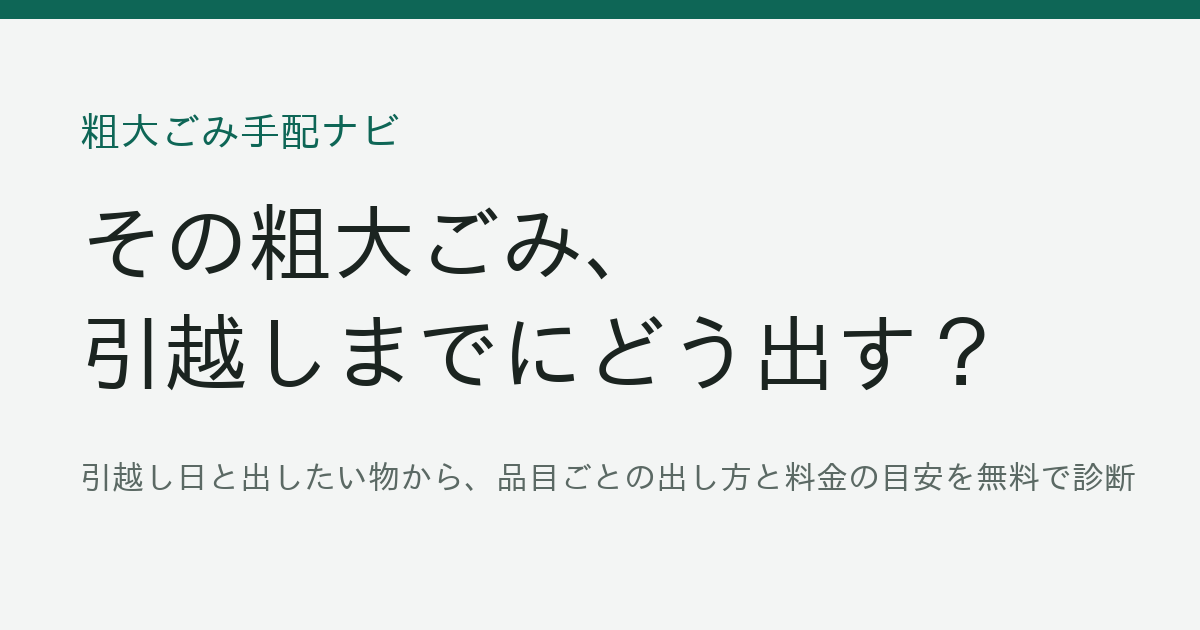
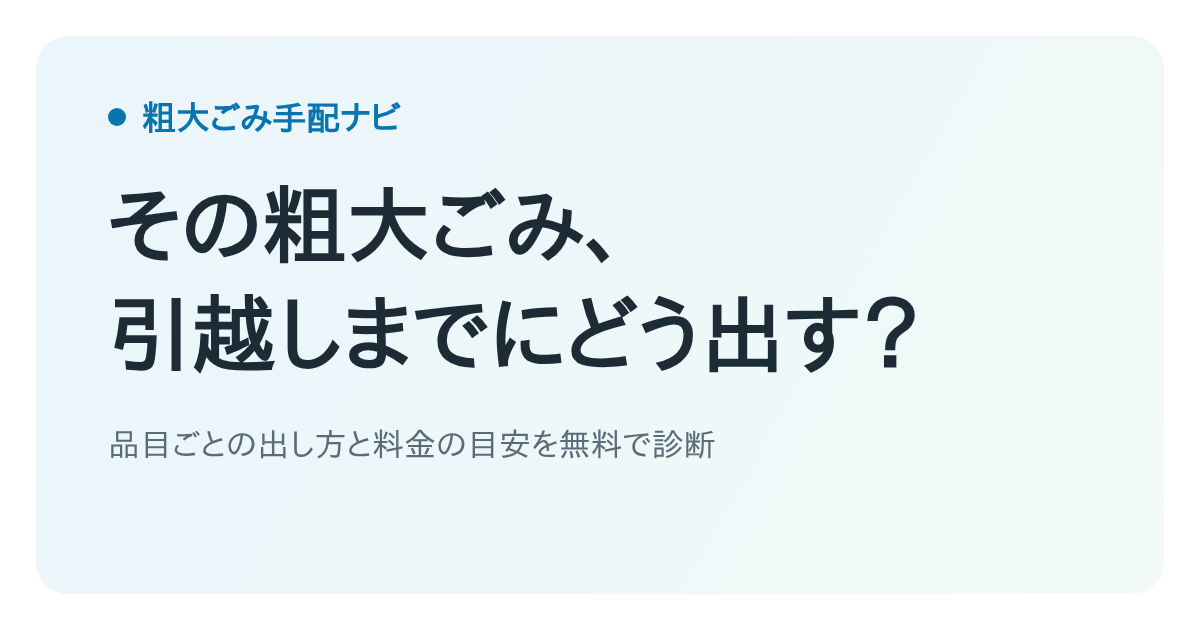
白背景の爽やかなデザインに変更し、市区ごとの出し方とFAQを追加
- 配色を白背景・青系に（ダークモードは廃止）。カードに薄い影、ヘッダーを淡いグラデーションの帯に
- OGP画像・favicon・apple-touch-icon・404 を新しい配色に
- 市区の表をHTMLに直接書く（JSなしでも読める）＋市区ごとの出し方の段落
- 「粗大ごみの出し方（基本の流れ）」の節、FAQ「何日前に申し込めばいいか」（FAQPageも）を追加

Claude-Session: https://claude.ai/code/session_01Tf5d8eCdm7P28XR5irAExE

diff --git a/index.html b/index.html
@@ -18,7 +18,8 @@
 <meta property="og:image:height" content="630">
 <meta property="og:image:alt" content="粗大ごみの出し方診断">
 <meta name="twitter:card" content="summary_large_image">
-<meta name="theme-color" content="#0E6656">
+<meta name="theme-color" content="#FFFFFF">
+<meta name="color-scheme" content="light">
 <link rel="icon" href="/favicon.svg" type="image/svg+xml">
 <link rel="apple-touch-icon" href="/apple-touch-icon.png">
 <link rel="preconnect" href="https://fonts.googleapis.com">
@@ -31,6 +32,7 @@
 {"@context":"https://schema.org","@type":"FAQPage","mainEntity":[
 {"@type":"Question","name":"引越しまでに粗大ごみの予約が間に合わないときは？","acceptedAnswer":{"@type":"Answer","text":"まだ使える物は出張買取（断っても無料のお店）、自家用車がある場合は受入施設への持込、それも難しい場合は新居に運んで新しい自治体で出す方法があります。市の予約ページはキャンセルで空きが出ることもあるので、こまめに確認するのも手です。"}},
 {"@type":"Question","name":"冷蔵庫や洗濯機は粗大ごみに出せますか？","acceptedAnswer":{"@type":"Answer","text":"冷蔵庫・冷凍庫、洗濯機・衣類乾燥機、テレビ、エアコンの家電4品目は家電リサイクル法の対象で、市区町村の粗大ごみには出せません。買い替えるお店か買ったお店に引き取ってもらうか、郵便局でリサイクル券を払い込んで指定引取場所へ運びます。"}},
+{"@type":"Question","name":"粗大ごみは引越しの何日前に申し込めばいいですか？","acceptedAnswer":{"@type":"Answer","text":"自治体や時期によって違いますが、申し込みから収集まで1〜3週間ほどかかることがあります。3〜4月の引越しシーズンはさらに混むので、引越し日が決まったらすぐに申し込むと安心です。"}},
 {"@type":"Question","name":"粗大ごみの料金はいくらですか？","acceptedAnswer":{"@type":"Answer","text":"自治体と品目の大きさで決まります。たとえば千葉市は390円から1,560円、川崎市は300円・600円・1,200円の3区分です（2026年10月30日に各市の公式サイトで確認）。正確な金額は各自治体の手数料一覧で確認してください。"}},
 {"@type":"Question","name":"この診断にお金はかかりますか？","acceptedAnswer":{"@type":"Answer","text":"かかりません。診断は無料です。市や郵便局、買取店への支払いは、それぞれに直接行います。"}},
 {"@type":"Question","name":"入力した内容や写真はどこかに送られますか？","acceptedAnswer":{"@type":"Answer","text":"送られません。診断はお使いのブラウザの中だけで行い、入力内容や写真は保存しません。"}}
@@ -38,19 +40,14 @@
 </script>
 <style>
 :root{
-  --bg:#F3F5F4; --surface:#FFFFFF; --sunk:#E9EDEB; --ink:#1B2420; --muted:#5B6964; --faint:#9AA6A1; --line:#D6DDDA;
-  --accent:#0E6656; --accent-ink:#FFFFFF; --accent-soft:#DDEEE9;
-  --warn:#8A5A00; --warn-soft:#F8EDD5;
+  --bg:#FFFFFF; --surface:#FFFFFF; --sunk:#F3F8FB; --ink:#1D2B36; --muted:#5B6C79; --faint:#9DAAB4; --line:#E2EAF0;
+  --accent:#0874B0; --accent-ink:#FFFFFF; --accent-soft:#E8F4FB; --mint:#E9F7F1; --mint-ink:#0F7A57;
+  --warn:#8A5A00; --warn-soft:#FFF6DF;
+  --shadow:0 1px 2px rgba(16,60,90,.04),0 6px 20px rgba(16,60,90,.06);
   --f-display:"Zen Kaku Gothic New","Hiragino Sans","Noto Sans JP",system-ui,sans-serif;
   --f-body:"BIZ UDPGothic","Hiragino Sans","Noto Sans JP","Yu Gothic",system-ui,sans-serif;
   color-scheme:light;
 }
-@media (prefers-color-scheme: dark){:root:not([data-theme="light"]){
-  --bg:#111715; --surface:#19211E; --sunk:#141B18; --ink:#E4EBE8; --muted:#98A7A1; --faint:#5F6E68; --line:#2C3833;
-  --accent:#4CC2A4; --accent-ink:#06231C; --accent-soft:#173A31; --warn:#E5B04E; --warn-soft:#352A14; color-scheme:dark}}
-:root[data-theme="dark"]{
-  --bg:#111715; --surface:#19211E; --sunk:#141B18; --ink:#E4EBE8; --muted:#98A7A1; --faint:#5F6E68; --line:#2C3833;
-  --accent:#4CC2A4; --accent-ink:#06231C; --accent-soft:#173A31; --warn:#E5B04E; --warn-soft:#352A14; color-scheme:dark}
 *{box-sizing:border-box}
 [hidden]{display:none!important}
 html{-webkit-text-size-adjust:100%}
@@ -59,25 +56,31 @@ body{margin:0;background:var(--bg);color:var(--ink);font-family:var(--f-body);fo
 a{color:var(--accent)}
 img{max-width:100%}
 .wrap{max-width:1100px;margin:0 auto}
-h1,h2,h3{font-family:var(--f-display);font-weight:900;text-wrap:balance;margin:0;line-height:1.35}
+h1,h2,h3{font-family:var(--f-display);font-weight:700;text-wrap:balance;margin:0;line-height:1.35}
 button{font:inherit;color:inherit;cursor:pointer}
 :focus-visible{outline:3px solid var(--accent);outline-offset:2px}
 .num{font-variant-numeric:tabular-nums}
-.brand{font-size:13px;color:var(--muted);font-weight:700;letter-spacing:.06em;text-decoration:none}
-header{display:flex;flex-direction:column;gap:6px;margin-bottom:20px}
-header h1{font-size:28px}
+.nb{display:inline-block}
+.brand{font-size:13px;color:var(--accent);font-weight:700;letter-spacing:.06em;text-decoration:none}
+header{display:flex;flex-direction:column;gap:8px;margin:-8px 0 24px;padding:28px 28px 24px;border-radius:20px;
+  background:linear-gradient(120deg,#EAF5FC 0%,#F1FAF6 100%)}
+@media (max-width:640px){header{padding:22px 18px 18px;border-radius:16px}}
+header h1{font-size:30px;letter-spacing:.01em}
+@media (max-width:640px){header h1{font-size:24px}}
 header p{margin:0;color:var(--muted);max-width:62ch}
+.brand::before{content:"";display:inline-block;width:8px;height:8px;border-radius:50%;background:var(--accent);margin-right:8px;vertical-align:1px}
 .note{background:var(--warn-soft);color:var(--ink);border-radius:10px;padding:8px 12px;font-size:13px;margin-top:6px;max-width:62ch}
 .note b{color:var(--warn)}
 .grid{display:grid;grid-template-columns:minmax(0,.9fr) minmax(0,1.1fr);gap:24px;align-items:start}
 @media (max-width:880px){.grid{grid-template-columns:minmax(0,1fr)}}
-.panel{background:var(--surface);border:1px solid var(--line);border-radius:14px;padding:20px}
+.panel{background:var(--surface);border:1px solid var(--line);border-radius:16px;padding:22px;box-shadow:var(--shadow)}
 .qs{display:flex;flex-direction:column;gap:18px;position:sticky;top:12px}
 @media (max-width:880px){.qs{position:static}}
 .q b{display:block;font-size:14px;margin-bottom:8px}
 .q b small{font-weight:400;color:var(--muted);margin-left:6px}
 .chips{display:flex;flex-wrap:wrap;gap:6px}
-.chip{border:1.5px solid var(--line);background:var(--surface);border-radius:999px;padding:7px 13px;font-size:14px}
+.chip{border:1.5px solid var(--line);background:var(--surface);border-radius:999px;padding:7px 14px;font-size:14px;transition:border-color .15s,background .15s}
+.chip:hover{border-color:var(--accent)}
 .chip[aria-pressed=true]{border-color:var(--accent);background:var(--accent);color:var(--accent-ink);font-weight:700}
 .inp{width:100%;min-width:0;border:1.5px solid var(--line);border-radius:10px;padding:8px 12px;background:var(--surface);font:inherit;color:inherit}
 .sub{font-size:12px;color:var(--muted);margin:8px 0 6px}
@@ -91,7 +94,7 @@ header p{margin:0;color:var(--muted);max-width:62ch}
 .tag small{font-weight:400;font-size:11px;color:var(--muted)}
 .tag button{border:0;background:transparent;color:var(--muted);padding:0 6px;font-size:15px}
 .out{display:flex;flex-direction:column;gap:16px;min-width:0}
-.where{background:var(--surface);border:1px solid var(--line);border-radius:14px;padding:16px 18px;display:flex;flex-direction:column;gap:10px}
+.where{background:var(--surface);border:1px solid var(--line);border-radius:16px;box-shadow:var(--shadow);padding:16px 18px;display:flex;flex-direction:column;gap:10px}
 .where h3{font-size:16px}
 .wl{display:grid;grid-template-columns:repeat(2,minmax(0,1fr));gap:8px}
 @media (max-width:520px){.wl{grid-template-columns:minmax(0,1fr)}}
@@ -100,12 +103,12 @@ header p{margin:0;color:var(--muted);max-width:62ch}
 .w .wn{font-size:13px;font-weight:700}
 .w .wd{font-size:12px;color:var(--muted)}
 .w.off{opacity:.4}
-.w.on{background:var(--accent-soft);outline:1.5px solid var(--accent)}
+.w.on{background:var(--accent-soft);outline:1.5px solid color-mix(in srgb,var(--accent) 55%,transparent)}
 .wsub{margin:-6px 0 0;font-size:12px;color:var(--muted)}
 .wmine{font-size:12px;font-weight:700;color:var(--accent);margin-top:4px}
 .wnone{font-size:12px;color:var(--muted);margin-top:4px}
 .cards{display:flex;flex-direction:column;gap:12px}
-.icard{background:var(--surface);border:1px solid var(--line);border-radius:14px;overflow:hidden}
+.icard{background:var(--surface);border:1px solid var(--line);border-radius:16px;overflow:hidden;box-shadow:var(--shadow)}
 .ich{display:flex;flex-wrap:wrap;align-items:baseline;gap:6px 10px;padding:14px 18px;border-bottom:1px solid var(--line);background:var(--accent-soft)}
 .ich h3{font-size:20px}
 .icat{font-size:12px;color:var(--muted)}
@@ -119,7 +122,7 @@ header p{margin:0;color:var(--muted);max-width:62ch}
 .io.rec{background:color-mix(in srgb,var(--accent) 7%,var(--surface))}
 .io.ng{opacity:.5}
 .io.ng .mk{color:var(--muted)}
-.free{background:var(--accent-soft);border-radius:14px;padding:18px;display:flex;flex-direction:column;gap:8px}
+.free{background:var(--mint);border-radius:14px;padding:18px;display:flex;flex-direction:column;gap:8px}
 .free h3{font-size:18px}
 .free ol{margin:0;padding-left:20px;display:flex;flex-direction:column;gap:4px}
 .free p{margin:0;font-size:13px;color:var(--muted)}
@@ -127,10 +130,11 @@ header p{margin:0;color:var(--muted);max-width:62ch}
 .soon b{color:var(--ink)}
 /* 読み物 */
 .guide{margin-top:48px;display:flex;flex-direction:column;gap:36px;max-width:820px}
-.guide h2{font-size:22px;margin-bottom:12px}
+.guide h2{font-size:22px;margin-bottom:12px;padding-left:12px;border-left:4px solid var(--accent)}
 .guide h3{font-size:17px;margin:18px 0 6px}
 .guide p{margin:0 0 .8em}
-.guide ul{margin:0 0 .8em;padding-left:1.3em}
+.guide ul,.guide ol{margin:0 0 .8em;padding-left:1.3em}
+.guide li{margin-bottom:4px}
 .tbl{width:100%;border-collapse:collapse;background:var(--surface);border:1px solid var(--line);border-radius:12px;overflow:hidden;font-size:14px}
 .tbl th,.tbl td{padding:10px 12px;border-bottom:1px solid var(--line);text-align:left;vertical-align:top}
 .tbl th{background:var(--sunk);font-size:13px}
@@ -145,7 +149,7 @@ header p{margin:0;color:var(--muted);max-width:62ch}
   .tbl td:first-child::before{content:none}
   .tbl td:first-child{font-weight:700}
 }
-details{background:var(--surface);border:1px solid var(--line);border-radius:12px;padding:12px 16px;margin-bottom:8px}
+details{background:var(--sunk);border:0;border-radius:12px;padding:12px 16px;margin-bottom:8px}
 summary{font-weight:700;cursor:pointer}
 details p{margin:8px 0 0}
 .foot{margin-top:40px;padding-top:16px;border-top:1px solid var(--line);font-size:12px;color:var(--muted);display:flex;flex-direction:column;gap:4px}
@@ -155,7 +159,7 @@ details p{margin:8px 0 0}
 <div class="wrap">
   <header>
     <a class="brand" href="/">粗大ごみ手配ナビ</a>
-    <h1>その粗大ごみ、引越しまでにどう出す？</h1>
+    <h1>その粗大ごみ、<span class="nb">引越しまでにどう出す？</span></h1>
     <p>引越し日と出したい物を入れると、品目ごとに使える出し方（市の回収・買取・持込・家電リサイクル）と料金の目安がすぐにわかります。診断は無料です。</p>
     <p class="note"><b>料金と日数は目安です。</b>実際の金額・予約の空きは、お住まいの自治体やお店で必ずご確認ください。</p>
   </header>
@@ -180,6 +184,18 @@ details p{margin:8px 0 0}
     </section>
 
     <section>
+      <h2>粗大ごみの出し方（基本の流れ）</h2>
+      <p>多くの自治体では、次の順番で出します。細かい決まりは自治体ごとに違うので、お住まいの市区の公式ページもあわせて確認してください。</p>
+      <ol>
+        <li><b>申し込む</b>：インターネットか電話で、出したい物と収集日を申し込みます。品目ごとの手数料もここでわかります。</li>
+        <li><b>処理券（シール）を買う</b>：コンビニやスーパーなどで、手数料分の処理券を買います。</li>
+        <li><b>処理券を貼る</b>：受付番号や名前を書いて、物の見えるところに貼ります。</li>
+        <li><b>決められた日の朝に出す</b>：指定された場所に、収集日の朝に出します。立ち会いはいらないことが多いです。</li>
+      </ol>
+      <p>引越しが決まったら、まず粗大ごみの申し込みを済ませるのがおすすめです。3〜4月は予約が混み、希望の日が取れないことがあります。</p>
+    </section>
+
+    <section>
       <h2>冷蔵庫・洗濯機・テレビ・エアコンは粗大ごみに出せません</h2>
       <p>この4品目は家電リサイクル法の対象で、市区町村の粗大ごみでは回収していません。買い替えるお店・買ったお店に引き取ってもらうか、郵便局でリサイクル券を払い込み、指定引取場所に運びます（引越し会社が引き取ってくれる場合もあります）。料金はメーカーと大きさで決まります。</p>
       <p>製造から年数の浅い物は、買取で値段がつくこともあります。</p>
@@ -190,14 +206,32 @@ details p{margin:8px 0 0}
       <p>2026年10月30日に各自治体の公式サイトで確認した内容です。変わることがあるので、申し込む前に公式サイトをご確認ください。</p>
       <div class="tblw"><table class="tbl" id="citytbl">
         <thead><tr><th>市区</th><th>申し込み</th><th>料金</th><th>収集までの目安</th><th>持ち込み</th></tr></thead>
-        <tbody></tbody>
+        <tbody>
+<tr><td><a href="https://www.city.yokohama.lg.jp/kurashi/sumai-kurashi/gomi-recycle/gomi/shushu/sodaigomi/dashikata/sodaigomi.html" target="_blank" rel="noopener">横浜市</a></td><td data-h="申し込み">インターネット・チャット・LINE（24時間）、電話</td><td data-h="料金" class="num">品目ごと（市の手数料一覧）</td><td data-h="収集まで">1〜2週間ほど</td><td data-h="持ち込み">市内4か所の自己搬入ヤード</td></tr>
+<tr><td><a href="https://www.city.kawasaki.jp/300/page/0000012773.html" target="_blank" rel="noopener">川崎市</a></td><td data-h="申し込み">インターネット（24時間）、電話</td><td data-h="料金" class="num">¥300・¥600・¥1,200の3区分</td><td data-h="収集まで">1〜2週間ほど</td><td data-h="持ち込み">受付センターに確認</td></tr>
+<tr><td><a href="https://www.city.setagaya.lg.jp/02239/382.html" target="_blank" rel="noopener">世田谷区</a></td><td data-h="申し込み">インターネット、電話</td><td data-h="料金" class="num">品目ごと（区の手数料一覧）</td><td data-h="収集まで">2週間ほど</td><td data-h="持ち込み">船橋粗大ごみ中継所（収集の半額程度）</td></tr>
+<tr><td><a href="https://www.city.suginami.tokyo.jp/guide/gomi/seisou/1004899.html" target="_blank" rel="noopener">杉並区</a></td><td data-h="申し込み">インターネット（24時間）、電話</td><td data-h="料金" class="num">処理券A¥200・B¥300の組み合わせ</td><td data-h="収集まで">2〜3週間</td><td data-h="持ち込み">日曜のみ・1点¥400（要申込）</td></tr>
+<tr><td>さいたま市</td><td data-h="申し込み">インターネット、電話</td><td data-h="料金" class="num">品目ごと（市の手数料一覧）</td><td data-h="収集まで">1〜2週間ほど</td><td data-h="持ち込み">市の公式サイトで確認</td></tr>
+<tr><td><a href="https://www.city.chiba.jp/kankyo/junkan/shushugyomu/sodaigomi.html" target="_blank" rel="noopener">千葉市</a></td><td data-h="申し込み">インターネット・LINE、電話（一部品目は電話のみ）</td><td data-h="料金" class="num">¥390〜¥1,560</td><td data-h="収集まで">1〜2週間</td><td data-h="持ち込み">清掃施設へ自己搬入</td></tr>
+<tr><td>佐倉市</td><td data-h="申し込み">電話</td><td data-h="料金" class="num">市の公式サイトで確認</td><td data-h="収集まで">1〜2週間前に電話</td><td data-h="持ち込み">酒々井リサイクル文化センター（予約不要・10kgで約¥350）</td></tr>
+</tbody>
       </table></div>
+      <h3>市区ごとの粗大ごみの出し方</h3>
+      <p><b>横浜市の粗大ごみ</b>：インターネット・チャット・LINE（24時間）、電話で申し込みます。料金は品目ごとに決まっていて、市の手数料一覧で確認できます。収集までの目安は1〜2週間ほどです。持ち込みは市内4か所の自己搬入ヤードでできます。</p>
+      <p><b>川崎市の粗大ごみ</b>：インターネット（24時間）、電話で申し込みます。料金の目安は¥300・¥600・¥1,200の3区分です。収集までの目安は1〜2週間ほどです。持ち込みは受付センターに確認してください。</p>
+      <p><b>世田谷区の粗大ごみ</b>：インターネット、電話で申し込みます。料金は品目ごとに決まっていて、区の手数料一覧で確認できます。収集までの目安は2週間ほどです。持ち込みは船橋粗大ごみ中継所で、収集の半額程度です。</p>
+      <p><b>杉並区の粗大ごみ</b>：インターネット（24時間）、電話で申し込みます。料金の目安は処理券A¥200・B¥300の組み合わせです。収集までの目安は2〜3週間です。持ち込みは日曜のみ、1点¥400（申し込みが必要）です。</p>
+      <p><b>さいたま市の粗大ごみ</b>：インターネット、電話で申し込みます。料金は品目ごとに決まっていて、市の手数料一覧で確認できます。収集までの目安は1〜2週間ほどです。持ち込みは市の公式サイトで確認してください。</p>
+      <p><b>千葉市の粗大ごみ</b>：インターネット・LINE、電話（一部品目は電話のみ）で申し込みます。料金の目安は¥390〜¥1,560です。収集までの目安は1〜2週間です。持ち込みは清掃施設へ自分で運び込めます。</p>
+      <p><b>佐倉市の粗大ごみ</b>：電話で申し込みます。料金は市の公式サイトで確認してください。電話の申し込みは収集日の1〜2週間前までが目安です。持ち込みは酒々井リサイクル文化センターで、予約不要・10kgで約¥350です。</p>
+      <p>上記以外の地域は、お住まいの自治体の公式サイトで「粗大ごみ」のページを確認してください。</p>
     </section>
 
     <section>
       <h2>よくある質問</h2>
       <details><summary>引越しまでに粗大ごみの予約が間に合わないときは？</summary><p>まだ使える物は出張買取（断っても無料のお店）、自家用車がある場合は受入施設への持込、それも難しい場合は新居に運んで新しい自治体で出す方法があります。市の予約ページはキャンセルで空きが出ることもあるので、こまめに確認するのも手です。</p></details>
       <details><summary>冷蔵庫や洗濯機は粗大ごみに出せますか？</summary><p>冷蔵庫・冷凍庫、洗濯機・衣類乾燥機、テレビ、エアコンの家電4品目は、市区町村の粗大ごみには出せません。買い替えるお店か買ったお店に引き取ってもらうか、郵便局でリサイクル券を払い込んで指定引取場所へ運びます。</p></details>
+      <details><summary>粗大ごみは引越しの何日前に申し込めばいいですか？</summary><p>自治体や時期によって違いますが、申し込みから収集まで1〜3週間ほどかかることがあります。3〜4月の引越しシーズンはさらに混むので、引越し日が決まったらすぐに申し込むと安心です。</p></details>
       <details><summary>粗大ごみの料金はいくらですか？</summary><p>自治体と品目の大きさで決まります。たとえば千葉市は390円〜1,560円、川崎市は300円・600円・1,200円の3区分です（2026年10月30日確認）。正確な金額は各自治体の手数料一覧で確認してください。</p></details>
       <details><summary>この診断にお金はかかりますか？</summary><p>かかりません。市や郵便局、買取店への支払いは、それぞれに直接行います。</p></details>
       <details><summary>入力した内容や写真はどこかに送られますか？</summary><p>送られません。診断はお使いのブラウザの中だけで行い、入力内容や写真は保存しません。</p></details>

diff --git a/404.html b/404.html
@@ -7,8 +7,7 @@
 <title>ページが見つかりません｜粗大ごみ手配ナビ</title>
 <link rel="icon" href="/favicon.svg" type="image/svg+xml">
 <style>
-:root{--bg:#F3F5F4;--ink:#1B2420;--muted:#5B6964;--accent:#0E6656}
-@media (prefers-color-scheme: dark){:root{--bg:#111715;--ink:#E4EBE8;--muted:#98A7A1;--accent:#4CC2A4}}
+:root{--bg:#FFFFFF;--ink:#1D2B36;--muted:#5B6C79;--accent:#0874B0;color-scheme:light}
 body{margin:0;background:var(--bg);color:var(--ink);font-family:"Hiragino Sans","Noto Sans JP",system-ui,sans-serif;padding:64px 16px;text-align:center;line-height:1.7}
 a{color:var(--accent);font-weight:700}
 </style>

diff --git a/docs/seo-log.md b/docs/seo-log.md
@@ -1,3 +1,4 @@
 # SEOの作業記録（新しいものが上）
 
+- 2026-10-30 Nori「SEOを改善して。背景白で爽やかに」：白背景・青系のデザインに変更（ダークモード廃止、OGP画像・アイコンも更新）。市区の表をHTMLに直接書き（検索エンジンがJSなしで読める）、市区ごとの出し方の段落、「粗大ごみの出し方（基本の流れ）」の節、FAQ「何日前に申し込めばいいか」を追加。
 - 2026-10-30 自動SEOの仕組みを追加（`tools/seo_check.py`・`.github/workflows/seo-check.yml`・`docs/seo-playbook.md`）。チェックで見つかった FAQPage の質問抜け（「入力した内容や写真はどこかに送られますか？」）を本文にそろえて追加。
